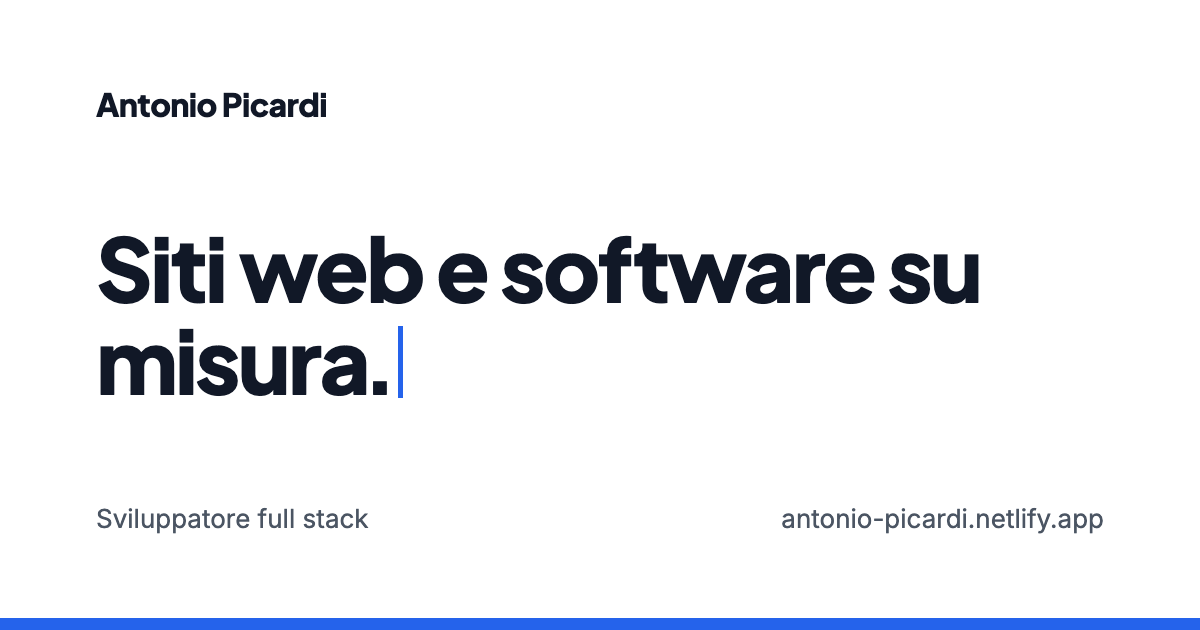
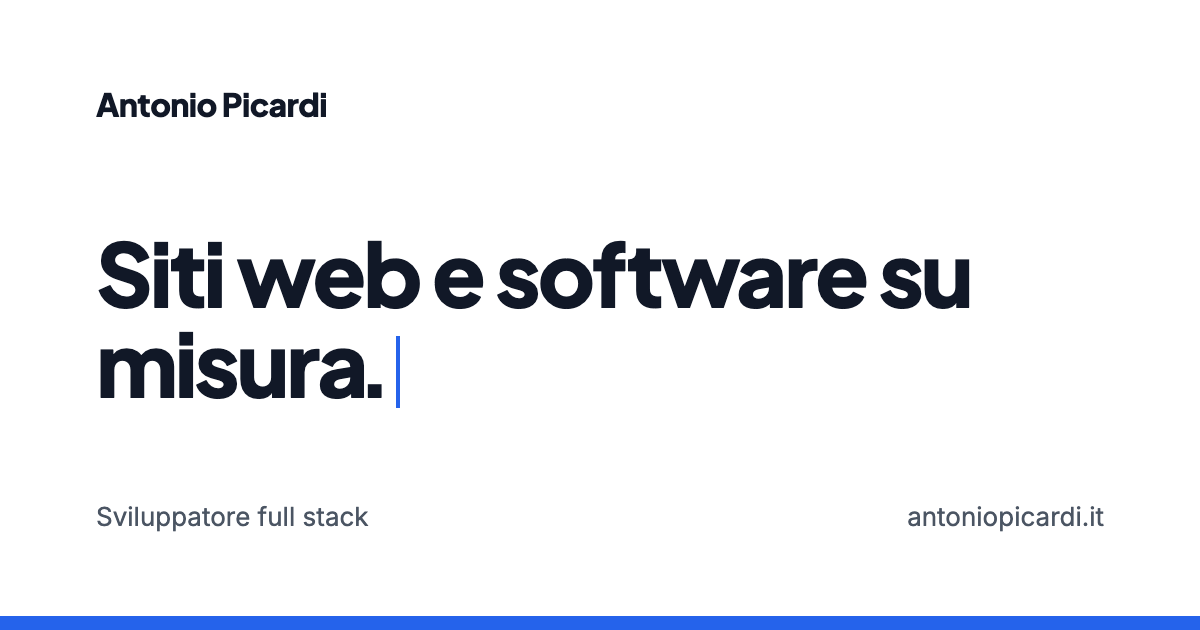
Dominio antoniopicardi.it: URL canonici e immagine di anteprima

diff --git a/index.html b/index.html
@@ -9,13 +9,13 @@
   <meta property="og:locale" content="it_IT" />
   <meta property="og:title" content="Antonio Picardi — Sviluppatore full stack" />
   <meta property="og:description" content="Antonio Picardi, sviluppatore full stack. Creo software che semplifica il lavoro delle persone: siti, gestionali, e-commerce e automazioni." />
-  <meta property="og:url" content="https://antonio-picardi.netlify.app/" />
-  <meta property="og:image" content="https://antonio-picardi.netlify.app/og-image.png" />
+  <meta property="og:url" content="https://antoniopicardi.it/" />
+  <meta property="og:image" content="https://antoniopicardi.it/og-image.png" />
   <meta property="og:image:width" content="1200" />
   <meta property="og:image:height" content="630" />
   <meta property="og:image:alt" content="Antonio Picardi — Siti web e software su misura" />
   <meta name="twitter:card" content="summary_large_image" />
-  <link rel="canonical" href="https://antonio-picardi.netlify.app/" />
+  <link rel="canonical" href="https://antoniopicardi.it/" />
   <link rel="icon" type="image/svg+xml" href="/favicon.svg" />
   <meta name="theme-color" content="#ffffff" />
   <noscript>

diff --git a/.claude/CLAUDE.md b/.claude/CLAUDE.md
@@ -87,5 +87,5 @@ Principi:
 - Nessuno spazio bianco prima di `</h1>` nella hero, altrimenti il cursore si stacca dal punto finale. Il punto è in `<span class="hero-dot">` con margine negativo perché in Plus Jakarta Sans ha molto spazio a sinistra
 
 ## SEO e anteprima social
-- Dominio: `https://antonio-picardi.netlify.app/` (usato in `og:url`, `og:image` e `link rel="canonical"`)
+- Dominio: `https://antoniopicardi.it/` (registrato su Register.it, collegato a Netlify; usato in `og:url`, `og:image`, `link rel="canonical"` e scritto in basso a destra in `og-image.png`). Il vecchio indirizzo `antonio-picardi.netlify.app` resta attivo
 - Immagine anteprima: `public/og-image.png` (1200×630, stesso stile e font del sito). Se cambiano titolo della hero o font va rigenerata
